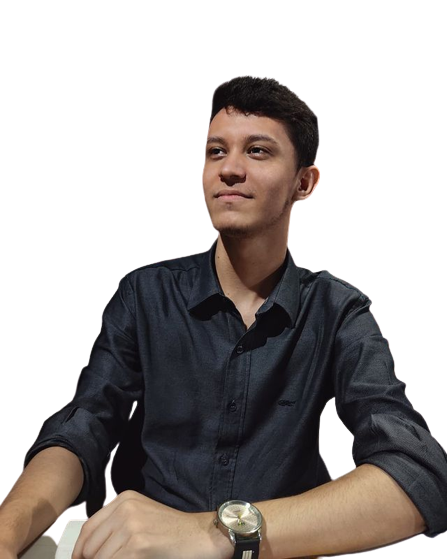
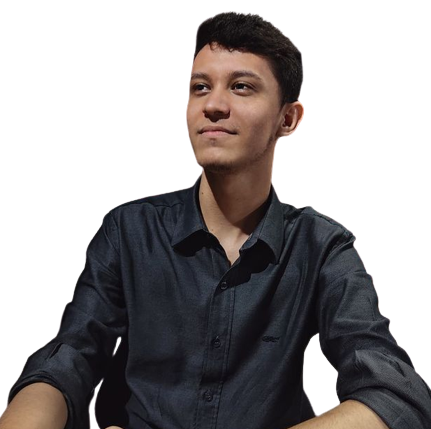
Adicionando o componente de certificações e idiomas
Adicionando o componente de Certificações e Idiomas, estilizando ambos e fazendo alguns ajustes na foto da HomeHero

Changed region(s): [[0.0, 0.0303, 1.0, 1.0], [0.3619, 0.7576, 0.4524, 0.7879]]

diff --git a/src/components/Certificacoes/styles.ts b/src/components/Certificacoes/styles.ts
@@ -1,0 +1,129 @@
+import styled from 'styled-components';
+
+export const Container = styled.section`
+    width: 100%;
+
+    > section:last-child {
+        align-items: center;
+        justify-content: center;
+
+        border-bottom: 3px solid ${({ theme }) => theme.primary};
+
+        margin-top: 2rem;
+        padding-bottom: 4rem;
+    }
+
+    > section {
+        width: 100%;
+        margin-top: 4rem;
+        display: flex;
+        gap: 1.5rem;
+        padding-bottom: 2rem;
+
+        a {
+            &:nth-child(even) {
+                margin-top: 4rem;
+            }
+        }
+
+        @media (max-width: 1000px) {
+            gap: 1rem;
+        }
+
+        @media (max-width: 700px) {
+            flex-direction: column;
+            margin-top: 5rem;
+            gap: 2rem;
+        }
+    }
+`;
+
+export const ItemContainer = styled.div`
+    > div {
+        background: ${({ theme }) => theme.gradient};
+        padding: 1rem;
+        padding-top: 2.5rem;
+        height: 20rem;
+        display: flex;
+        flex-direction: column;
+        align-items: flex-start;
+        justify-content: flex-start;
+
+        transition: 0.5s;
+
+        h1 {
+            color: ${({ theme }) => theme.primary};
+            font-size: 2rem;
+            margin-bottom: 1.5rem;
+        }
+
+        h2 {
+            color: ${({ theme }) => theme.secondary};
+            font-size: 1.5rem;
+            font-weight: 300;
+            margin-bottom: 1rem;
+        }
+
+        p {
+            color: ${({ theme }) => theme.textLight};
+            font-size: 1rem;
+            font-weight: 300;
+        }
+    }
+
+    &:hover > div {
+        filter: brightness(1.3);
+        transform: translateY(-20px);
+    }
+
+    &:nth-child(even) {
+        margin-top: 4rem;
+    }
+
+    @media (max-width: 1000px) {
+        > div {
+            height: 15rem;
+            padding-top: 1.5rem;
+
+            h1 {
+                font-size: 1.2rem;
+                margin-bottom: 1rem;
+            }
+
+            h2 {
+                font-size: 1rem;
+            }
+
+            p {
+                font-size: 0.9rem;
+            }
+        }
+    }
+
+    @media (max-width: 700px) {
+        &:nth-child(even) > div {
+            margin-top: 0;
+        }
+
+        &:hover > div {
+            transform: translateY(0);
+        }
+
+        > div {
+            height: auto;
+            padding: 2rem;
+            
+            h1 {
+                font-size: 2rem;
+            }
+
+            h2 {
+                font-size: 1.5rem;
+            }
+
+            p {
+                font-size: 1rem;
+            }
+        }
+    }
+`;

diff --git a/src/components/Certificacoes/index.tsx b/src/components/Certificacoes/index.tsx
@@ -1,0 +1,63 @@
+import SectionTitle from '../SectionTitle';
+import CertificacoesItem from './CertificacoesItem';
+import { Container } from './styles';
+
+function Certificacoes() {
+    return (
+        <Container>
+            <SectionTitle title="Certificações" description="E Idiomas" />
+
+            <section>
+                <a href="https://drive.google.com/file/d/1_jiuDRgeP6-siGRUmMJqtK7ZhqtQ0t7y/view" target="_blank">
+                    <CertificacoesItem 
+                        year="2018"
+                        title="Fundamentos de T.I - Hardware e Software"
+                        description="( Fundação Bradesco )"
+                    />
+                </a>
+                <a href="https://drive.google.com/file/d/1QfYNxdDgsi6ffr3b_QZOvT_1oN-yOlp5/view" target="_blank">
+                    <CertificacoesItem 
+                        year="2018"
+                        title="Microsoft Windows 7"
+                        description="( Fundação Bradesco )"
+                    />
+                </a>
+                <a href="https://drive.google.com/file/d/1hjxCIjxoXezffUH0fTk6AxifBOmCEsxb/view" target="_blank">
+                    <CertificacoesItem 
+                        year="2018"
+                        title="Sistemas Operacionais - Conceitos Básicos"
+                        description="( Fundação Bradesco )"
+                    />
+                </a>
+                <a href="https://drive.google.com/file/d/1zdMXDUQVR1iHoSLrtgyAWj-xNGFo2QLb/view" target="_blank">
+                    <CertificacoesItem 
+                        year="2021"
+                        title="Introdução a React Native"
+                        description="( Sertão Comp II )"
+                    />
+                </a>
+            </section>
+            <hr />
+            <section>
+            <p></p>
+                <CertificacoesItem 
+                    year="Português"
+                    title="Fluente"
+                    description="Língua Nativa"
+                />
+                <CertificacoesItem 
+                    year="Inglês"
+                    title="Avançado"
+                    description="( C1 )"
+                />
+                <CertificacoesItem 
+                    year="Espanhol"
+                    title="Básico"
+                    description="( A2 )"
+                />
+            </section>
+        </Container>
+    );
+}
+
+export default Certificacoes;

diff --git a/src/components/SectionTitle/styles.ts b/src/components/SectionTitle/styles.ts
@@ -1,0 +1,40 @@
+import styled from 'styled-components';
+
+export const Container = styled.div`
+    width: 100%;
+    display: flex;
+    flex-direction: column;
+    align-items: flex-start;
+    gap: 0.5rem;
+    
+    h1 {
+        color: ${({ theme }) => theme.primary};
+        font-size: 4.5rem;
+    }
+
+    h2 {
+        color: ${({ theme }) => theme.secondary};
+        font-weight: 300;
+        font-size: 3.5rem;
+    }
+
+    @media (max-width: 1000px) {
+        h1 {
+            font-size: 2.5rem;
+        }
+
+        h2 {
+            font-size: 1.8rem;
+        }
+    }
+
+    @media (max-width: 500px) {
+        h1 {
+            font-size: 1.8rem;
+        }
+
+        h2 {
+            font-size: 1.2rem;
+        }
+    }
+`;

diff --git a/src/components/HomeHero/styles.ts b/src/components/HomeHero/styles.ts
@@ -3,21 +3,21 @@ import styled from 'styled-components';
 export const Container = styled.section`
     width: 100%;
     display: flex;
-    gap: 2rem;
+    gap: 8rem;
     align-items: center;
     justify-content: center;
     margin-top: 5rem;
 
     > img {
-        margin-left: 6rem;
-        width: 40rem;
-        flex: 1;
-        border-radius: 200px;
+        width: 36rem;
+        flex: 3;
+        border-radius: 100px;
         transform: scaleX(-1);
+        border-bottom: 8px solid ${({ theme }) => theme.primary};
+        box-shadow: 0px 20px 20px -20px rgb(0 0 0 / 20%);
     }
 
     > div {
-        margin-right: 6rem;
         flex: 4;
     }
 

diff --git a/src/components/Certificacoes/CertificacoesItem.tsx b/src/components/Certificacoes/CertificacoesItem.tsx
@@ -1,0 +1,19 @@
+import { ItemContainer } from './styles';
+
+interface CertificacoesProps {
+    year: string;
+    title: string;
+    description: string;
+}
+
+export default function CertificacoesItem({ year, title, description }: CertificacoesProps) {
+    return (
+        <ItemContainer>
+            <div>
+                <h1>{year}</h1>
+                <h2>{title}</h2>
+                <p>{description}</p>
+            </div>
+        </ItemContainer>
+    )
+}

diff --git a/src/components/SectionTitle/index.tsx b/src/components/SectionTitle/index.tsx
@@ -1,0 +1,18 @@
+import { ReactNode } from 'react';
+import { Container } from './styles';
+
+interface SectionTitleProps {
+    title: string | ReactNode;
+    description: string | ReactNode;
+}
+
+function SectionTitle({ title, description }: SectionTitleProps) {
+    return (
+        <Container>
+            <h1># {title}</h1>
+            {description && <h2>{description}</h2>}
+        </Container>
+    )
+}
+
+export default SectionTitle;

diff --git a/src/pages/index.tsx b/src/pages/index.tsx
@@ -2,6 +2,7 @@ import { HomeContainer } from '../styles/HomeStyles';
 
 import Header from "../components/Header";
 import HomeHero from "../components/HomeHero";
+import Certificacoes from '../components/Certificacoes';
 
 export default function Home() {
   return (
@@ -10,6 +11,7 @@ export default function Home() {
 
       <main className="container">
         <HomeHero />
+        <Certificacoes />
       </main>
     </HomeContainer>
   );

diff --git a/src/components/HomeHero/index.tsx b/src/components/HomeHero/index.tsx
@@ -9,7 +9,7 @@ function HomeHero() {
             <div>
                 <TextContainer>
                     <h1>Olá</h1>
-                    <h2>Sou o João Alfredo</h2>
+                    <h2>Eu sou o João Alfredo</h2>
                 </TextContainer>
                 <InfosContainer>
                     <CodeItem>

diff --git a/.eslintrc.js b/.eslintrc.js
@@ -29,6 +29,7 @@ module.exports = {
     'space-before-function-paren': 'off',
     'react/prop-types': 'off',
     'import/prefer-default-export': 'off',
-    'jsx-a11y/anchor-is-valid': 'off'
+    'jsx-a11y/anchor-is-valid': 'off',
+    'react/require-default-props': 'off'
   }
 };
